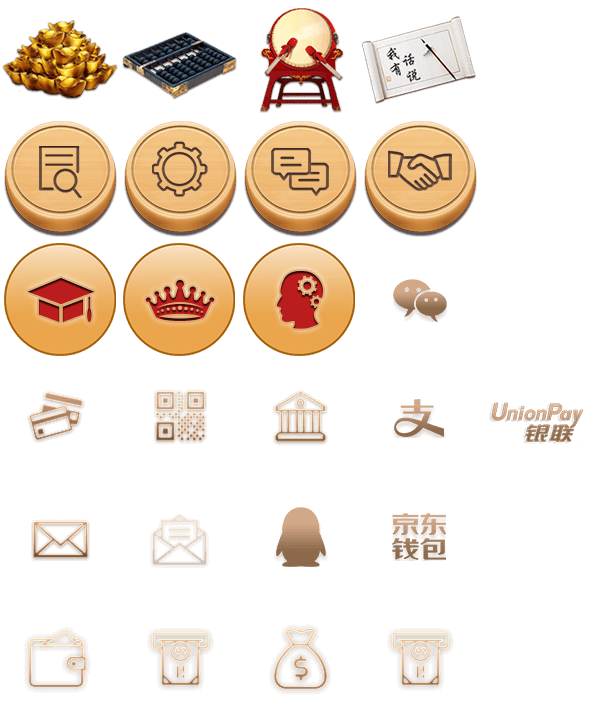
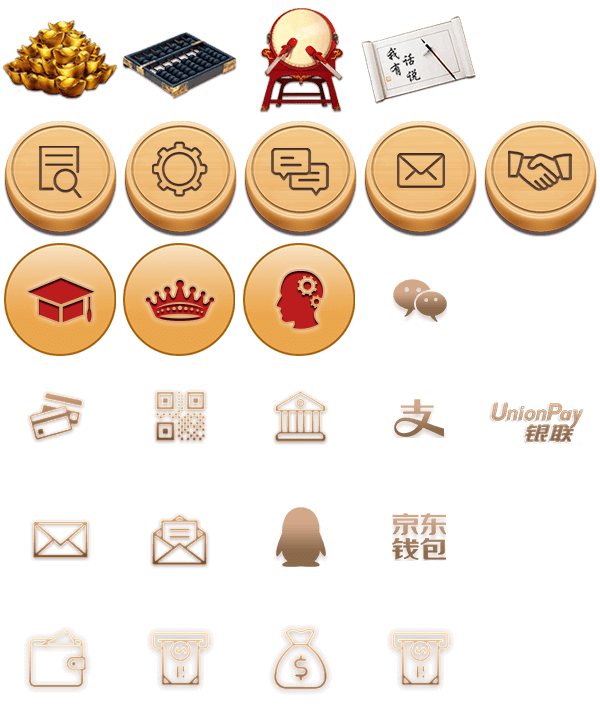
个人消息

Changed region(s): [[0.81, 0.1528, 1.0, 0.3361], [0.24, 0.7028, 0.36, 0.7944], [0.63, 0.2139, 0.78, 0.275]]

diff --git a/src/components/lobbyTemplate/notification.vue b/src/components/lobbyTemplate/notification.vue
@@ -15,41 +15,60 @@
                 <div class="message_area new_panel">
                     <div class="new_panel_top"></div>
                     <div class="new_panel_center">
-                        <div class="item arrow_list_dark">
+                        <div class="item">
                             <div class="badge">
-                                <!--icon_notice_1 未读，icon_notice_2 已读-->
                                 <span class="icon_account icon_notice_1"></span>
                             </div>
-                            <div class="content msgc">
-                                <div class="description date">2017/07/21</div>
-                                <a class="text">亲爱的用户，您的取款审核已通过，请留 意银行账户余额变动！
-                                </a>
+                            <div class="content">
+                                <div class="title">
+                                    <h2>春节大回馈</h2>
+                                </div>
+                                <div class="detail">
+                                    <p>本公司會員最多可申請1個帳號投注，. 若超過1個以上的帳號投注同場賽事,. 本公司將保留最終的注單審核及刪除權利，. 敬請會員注意，謝謝。</p>
+                                    <p>春节大回馈春节大回馈春节大回馈春节大回馈春节大回馈春节大回馈</p>
+                                </div>
+                                <div class="date">2017/07/21</div>
                             </div>
-                            <span class="icon icon_arrow_light"></span>
+                            <div class="btn_collapse">
+                                <span>展开</span>
+                                <span class="icon icon_arrow_light"></span>
+                            </div>
                         </div>
-                        <div class="item arrow_list_dark">
+                        <div class="item">
                             <div class="badge">
-                                <!--icon_notice_1 未读，icon_notice_2 已读-->
                                 <span class="icon_account icon_notice_1"></span>
                             </div>
-                            <div class="content msgc">
-                                <div class="description date">2017/07/21</div>
-                                <a class="text">亲爱的用户，您的取款审核已通过，请留 意银行账户余额变动！
-                                </a>
+                            <div class="content">
+                                <div class="title">
+                                    <h2>投注相關規範公告</h2>
+                                </div>
+                                <div class="detail">
+                                    <p>本公司會員最多可申請1個帳號投注，. 若超過1個以上的帳號投注同場賽事,. 本公司將保留最終的注單審核及刪除權利，. 敬請會員注意，謝謝。</p>
+                                </div>
+                                <div class="date">2017/07/21</div>
                             </div>
-                            <span class="icon icon_arrow_light"></span>
+                            <div class="btn_collapse">
+                                <span>展开</span>
+                                <span class="icon icon_arrow_light"></span>
+                            </div>
                         </div>
-                        <div class="item arrow_list_dark read">
+                        <div class="item">
                             <div class="badge">
-                                <!--icon_notice_1 未读，icon_notice_2 已读-->
-                                <span class="icon_account icon_notice_2"></span>
+                                <span class="icon_account icon_notice_1"></span>
                             </div>
-                            <div class="content msgc">
-                                <div class="description date">2017/07/21</div>
-                                <a class="text">亲爱的用户，您的取款审核已通过，请留 意银行账户余额变动！
-                                </a>
+                            <div class="content">
+                                <div class="title">
+                                    <h2>春节大回馈</h2>
+                                </div>
+                                <div class="detail">
+                                    春节大回馈春节大回馈春节大回馈春节大回馈春节大回馈春节大回馈
+                                </div>
+                                <div class="date">2017/07/21</div>
                             </div>
-                            <span class="icon icon_arrow_light"></span>
+                            <div class="btn_collapse">
+                                <span>展开</span>
+                                <span class="icon icon_arrow_light"></span>
+                            </div>
                         </div>
                     </div>
                 </div>
@@ -115,6 +134,20 @@ export default {
   mounted:function() {
       $('html,body').css('overflow-y','scroll' )  ;
 
+      //列表展开收合
+      $('.message_area').find('.item').on('click',function(){
+          var $this = $(this);
+          var $text = $(this).find('.btn_collapse span:first-child');
+
+          if (! $this.hasClass('active') ){
+              $this.addClass('active');
+              $this.siblings().removeClass('active');
+              $text.text('收合')
+          } else{
+              $this.removeClass('active');
+              $text.text('展开')
+          }
+      })
   },
   methods: {
 

diff --git a/static/frist/css/page.css b/static/frist/css/page.css
@@ -110,6 +110,8 @@ body{
 /*.new_header .right > a.guset { background-color: transparent; -webkit-box-shadow: inherit; box-shadow: inherit; line-height: .5rem; }
 .new_header .right > a.guset > i { background-image: url("/static/frist/images/signs.svg"); background-repeat: no-repeat; background-position: 0; background-color: transparent; background-size: 100%; width: .5rem; height: .5rem; display: block; float: left; margin-right: .1rem; }*/
 .new_header .right .dropdown_icon { font-size: .34rem; padding: 0 0.2rem; color: #ffc388; line-height: 1.36rem; cursor: pointer; }
+.new_header .btn_notification{ position: relative; margin-right: 0.1rem;}
+.new_header .btn_notification:after {content:'';display:block; position: absolute; width: 0.25rem; height: 0.25rem; top: 0.05rem; right: -0.05rem; background-color: #ec1313;  border-radius: 1rem; overflow: hidden; }
 
 /* 投注页 header */
 .new_header ul > li { position: absolute; top: 0; }
@@ -154,6 +156,7 @@ footer.bot_nav ul li a span.Footer-font { display: block; }
 .so-left .so-l-c-con .all_lottery:after{ content: ''; display: table; clear: both;}
 /*.so-left .so-l-c-con .all_lottery .badge { display: none; }*/
 .so-left .so-l-c-con .all_lottery.active {  }
+.so-left .so-l-c-con .left_logout{margin-top: 1rem;}
 
 .so-left.active { left: 50%; margin-left: -5rem; }
 .so-left.close { left: -100%; }
@@ -391,6 +394,7 @@ img.fixbot { position: fixed; bottom: 0; margin: 0 auto; width: 100%; left: 0; m
 .icon.icon_filter{background-position: -1.28rem -1.92rem }
 .icon.icon_check{background-position: -0.64rem -1.92rem }
 .icon.icon_equal{ background-position: -4.48rem -1.92rem;}
+.icon.icon_mail{ background-position: -5.12rem -1.92rem;}
 
 .icon_account  { display: inline-block; vertical-align: middle; width: 1.5rem; 	height: 1.5rem; margin: 0 auto; background-image: url(/static/frist/images/icon_account.png);	 background-size: 7.5rem auto; background-position: 0 -4.5rem;}
 
@@ -1427,16 +1431,22 @@ fieldset { display: block; margin: .3rem 0; font-size: .34rem; text-align: left;
 
 /* 个人消息 */
 .message_area{ text-align: left;}
-.message_area .item { overflow: hidden; height: 1.5rem; line-height: .75rem; padding: .3rem; text-align: left; border-bottom: 1px solid #7e5c4c;color: #ffc388; }
+.message_area .item { padding: .3rem;overflow: hidden; box-sizing: border-box;border-bottom: 1px solid #90573e; position: relative;}
+.message_area .item:after{ content: ''; display: table; clear: both;}
 .message_area .item a{ color: #d59559; }
-.message_area .item .badge{ display: inline-block; }
-.message_area .item .icon { float: left; }
-.message_area .item .content {display: inline-block; vertical-align: middle; width: 6rem; height: 1.5rem; font-size: .35rem; }
-.message_area .item .content > .text { -o-text-overflow: ellipsis; text-overflow: ellipsis; overflow: hidden; display: -webkit-box; -webkit-line-clamp: 1; -webkit-box-orient: vertical; height: 1.3em; line-height: 1.5em; }
-.message_area .item.read { color: #d59559; opacity: 0.7; }
-/*.message_area .item.read i.i_mail_status { background: url("/static/frist/images/icon_money.png") no-repeat; background-size: 100%; background-position-y: -4.65rem; margin-top: .12rem; }*/
-.message_area .item.read a { color: #d59559; }
-
+.message_area .item .badge{ float: left; background: url(/static/frist/images/logo_bg.png) no-repeat; background-size: 100% 100%; width: 1.5rem; height: 1.5rem; margin-right: 0.15rem;}
+.message_area .item .title{ }
+.message_area .item .title h2{ color: #ffe1bf; font-size: 0.4rem; padding-right: 1rem;}
+.message_area .item .detail{ margin: 0.1rem 0 0; line-height: 1.5em; height: 3em; overflow: hidden; text-overflow: ellipsis; color: #ffc388; position: relative;}
+/*.message_area .item .detail .dot{ position: absolute; bottom: 0; right: 0; padding-left: 0.1rem; background: -moz-radial-gradient(center, ellipse cover, rgba(170,108,69,1) 0%, rgba(170,108,69,1) 50%, rgba(170,108,69,0) 100%); background: -webkit-radial-gradient(center, ellipse cover, rgba(170,108,69,1) 0%,rgba(170,108,69,1) 50%,rgba(170,108,69,0) 100%);background: radial-gradient(ellipse at center, rgba(170,108,69,1) 0%,rgba(170,108,69,1) 50%,rgba(170,108,69,0) 100%); }*/
+.message_area .item.active .detail{height: auto; white-space: initial;}
+/*.message_area .item.active .detail .dot{display: none;}*/
+.message_area .item .content {float: left; width: 6.55rem; }
+.message_area .item .btn_collapse{ position: absolute; top: 0.3rem; right: 0.3rem;  }
+.message_area .item .btn_collapse span{ vertical-align: middle; display: inline-block; line-height: 1.2em;}
+.message_area .item .btn_collapse .icon{ margin:  -0.15rem ;transform: rotate(90deg);-webkit-transition: transform 200ms ;-moz-transition: transform 200ms ;transition: transform 200ms ;}
+.message_area .item.active .icon{ transform: rotate(270deg); -webkit-transition: transform 200ms ;-moz-transition: transform 200ms ;transition: transform 200ms ;}
+.message_area .item.active .icon_notice_1 { background-position: -1.5rem -6rem; } 
 
 .password_area { padding: 0.3rem; background-color: #6f3a23; box-shadow: 0px 0px 0.3rem rgba(0, 0, 0, 0.8);}
 .password_area > div {  text-align: center; }

diff --git a/src/components/lobbyTemplate/info.vue b/src/components/lobbyTemplate/info.vue
@@ -72,14 +72,6 @@
                                 <span class="icon icon_arrow_dark"></span>
                             </a>
                         </li>
-                      <!--  <li>
-                            <router-link class="btn_icon" :to="'/lobbyTemplate/notification'">
-                                <div class="icon">
-                                    <div> <i class="info04"></i></div>
-                                </div>
-                                个人消息
-                            </router-link>
-                        </li>-->
                         <li>
                             <a class="btn_icon" :href="custUrl" target="_blank" >
                                 <span class="icon_account icon_info_3"></span>
@@ -87,6 +79,15 @@
                                 <span class="icon icon_arrow_dark"></span>
                             </a>
                         </li>
+                        <!--20180125 新增个人消息-->
+                        <li style="display:none">
+                            <router-link class="btn_icon" :to="'/lobbyTemplate/notification'">
+                                <span class="icon_account icon_info_4"></span>
+                                <span>个人消息</span>
+                                <span class="icon icon_arrow_dark"></span>
+                            </router-link>
+                        </li>
+                        <!--end 20180125 新增个人消息-->
                         <!--<li>-->
                             <!--<router-link class="btn_icon" :to="'/lobbyTemplate/join'">-->
                                 <!--<div class="icon_account icon_info_4"></div>-->

diff --git a/src/components/Index.vue b/src/components/Index.vue
@@ -19,6 +19,9 @@
                  <a class="guset" href="javascript:;" v-show="haslogin && logintype=='2'" @click="CheckDemoPlay()"><span class="icon icon_user"></span>游客</a>  <!--  试玩帐号 -->
                  <span class="memberaccount" v-show="haslogin && logintype=='1'">{{getCookie('username')}}</span>
                  <a class="new_btn_outline" href="javascript:;" v-show="haslogin" @click="loginOut()">退出</a>
+                 <!--20180125 新增个人消息-->
+                 <a style="display:none" class="btn_notification" href="/lobbyTemplate/notification"><span class="icon icon_mail"></span></a>
+                 <!--end 20180125 新增个人消息-->
              </div>
          </header>
 

diff --git a/src/components/publicTemplate/IndexNavigation.vue b/src/components/publicTemplate/IndexNavigation.vue
@@ -64,6 +64,11 @@
                                 在线客服
                             </a>
                         </li>
+                        <!--20180125 新增个人消息-->
+                        <div style="display:none" class="left_logout">
+                            <a href="javascript:;" class="new_btn"><span class="midunm">退出</span></a>
+                        </div>
+                        <!--end 20180125 新增个人消息-->
                     </ul>
                 </div>
             </div>
